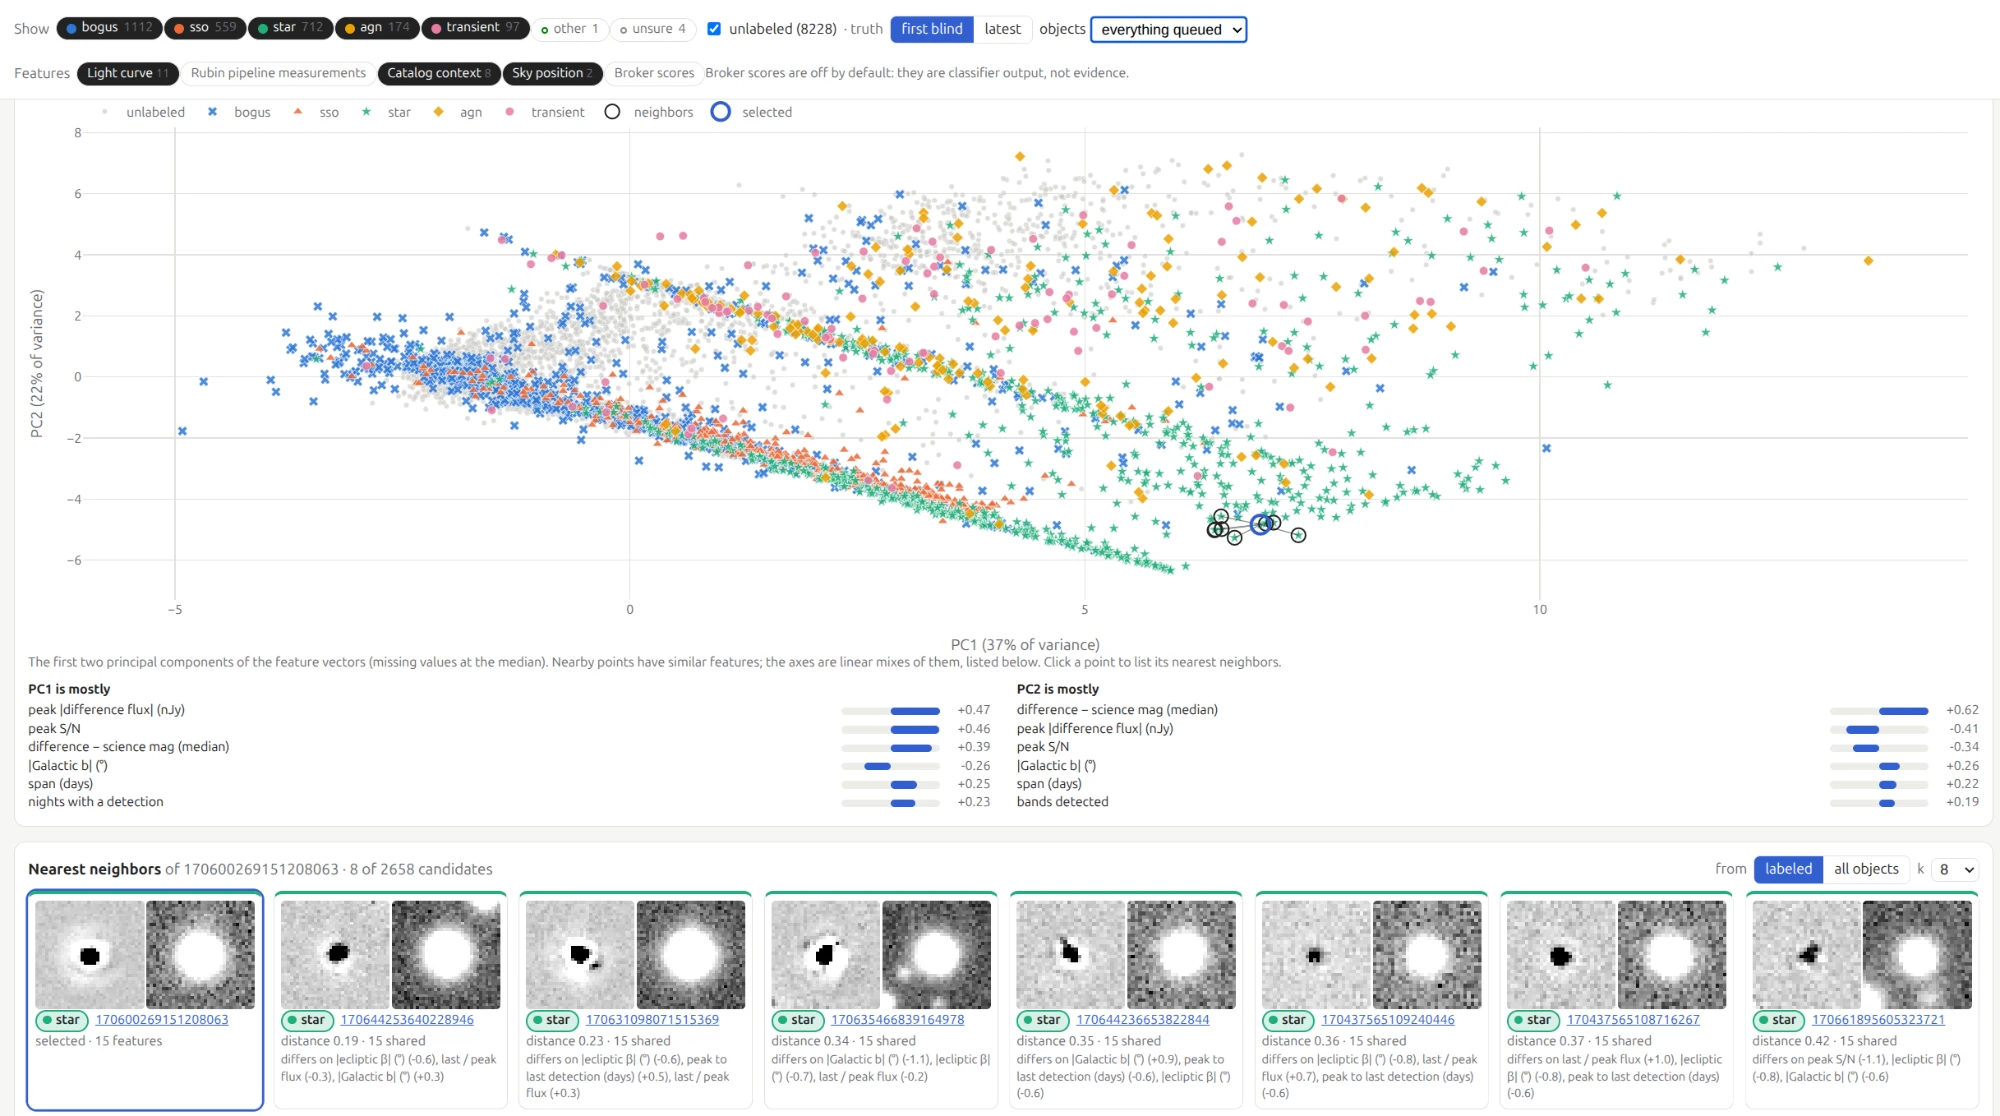
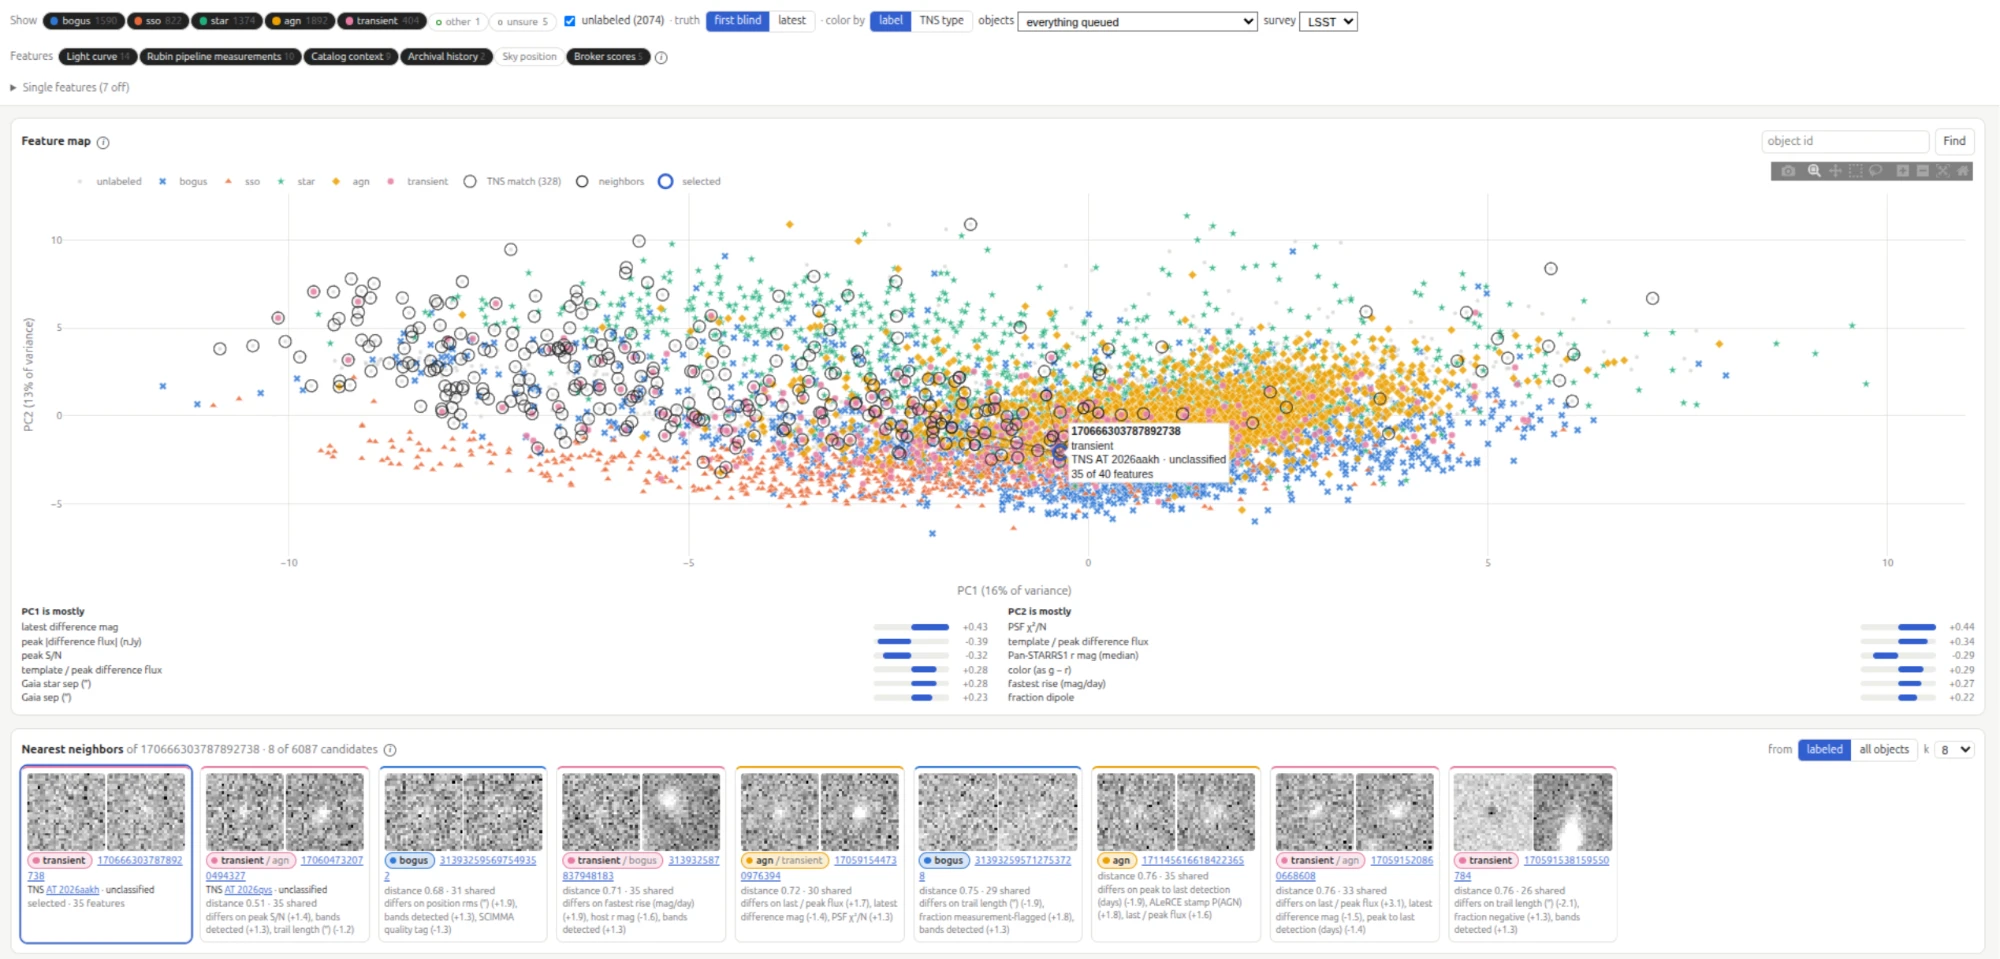
README: updated screenshot of the similar page

diff --git a/README.md b/README.md
@@ -218,7 +218,7 @@ and draw it on the map. Click a point to open it in the vetter. Code lives in `d
 
 ## Similar objects
 
-![The feature map of everything queued with a star selected, and its nearest labeled neighbors with their cutouts](docs/images/similar.webp)
+![The feature map of everything queued, colored by label with TNS matches ringed, a transient (AT 2026aakh) selected, and its nearest labeled neighbors with their cutouts](docs/images/similar.webp)
 
 `http://127.0.0.1:8765/similar` (or the "Similar" tab) shows which objects look alike, with no trained model.
 Each object is a vector of the filter lab's features (`rejection.features()`) plus a few light-curve shape
